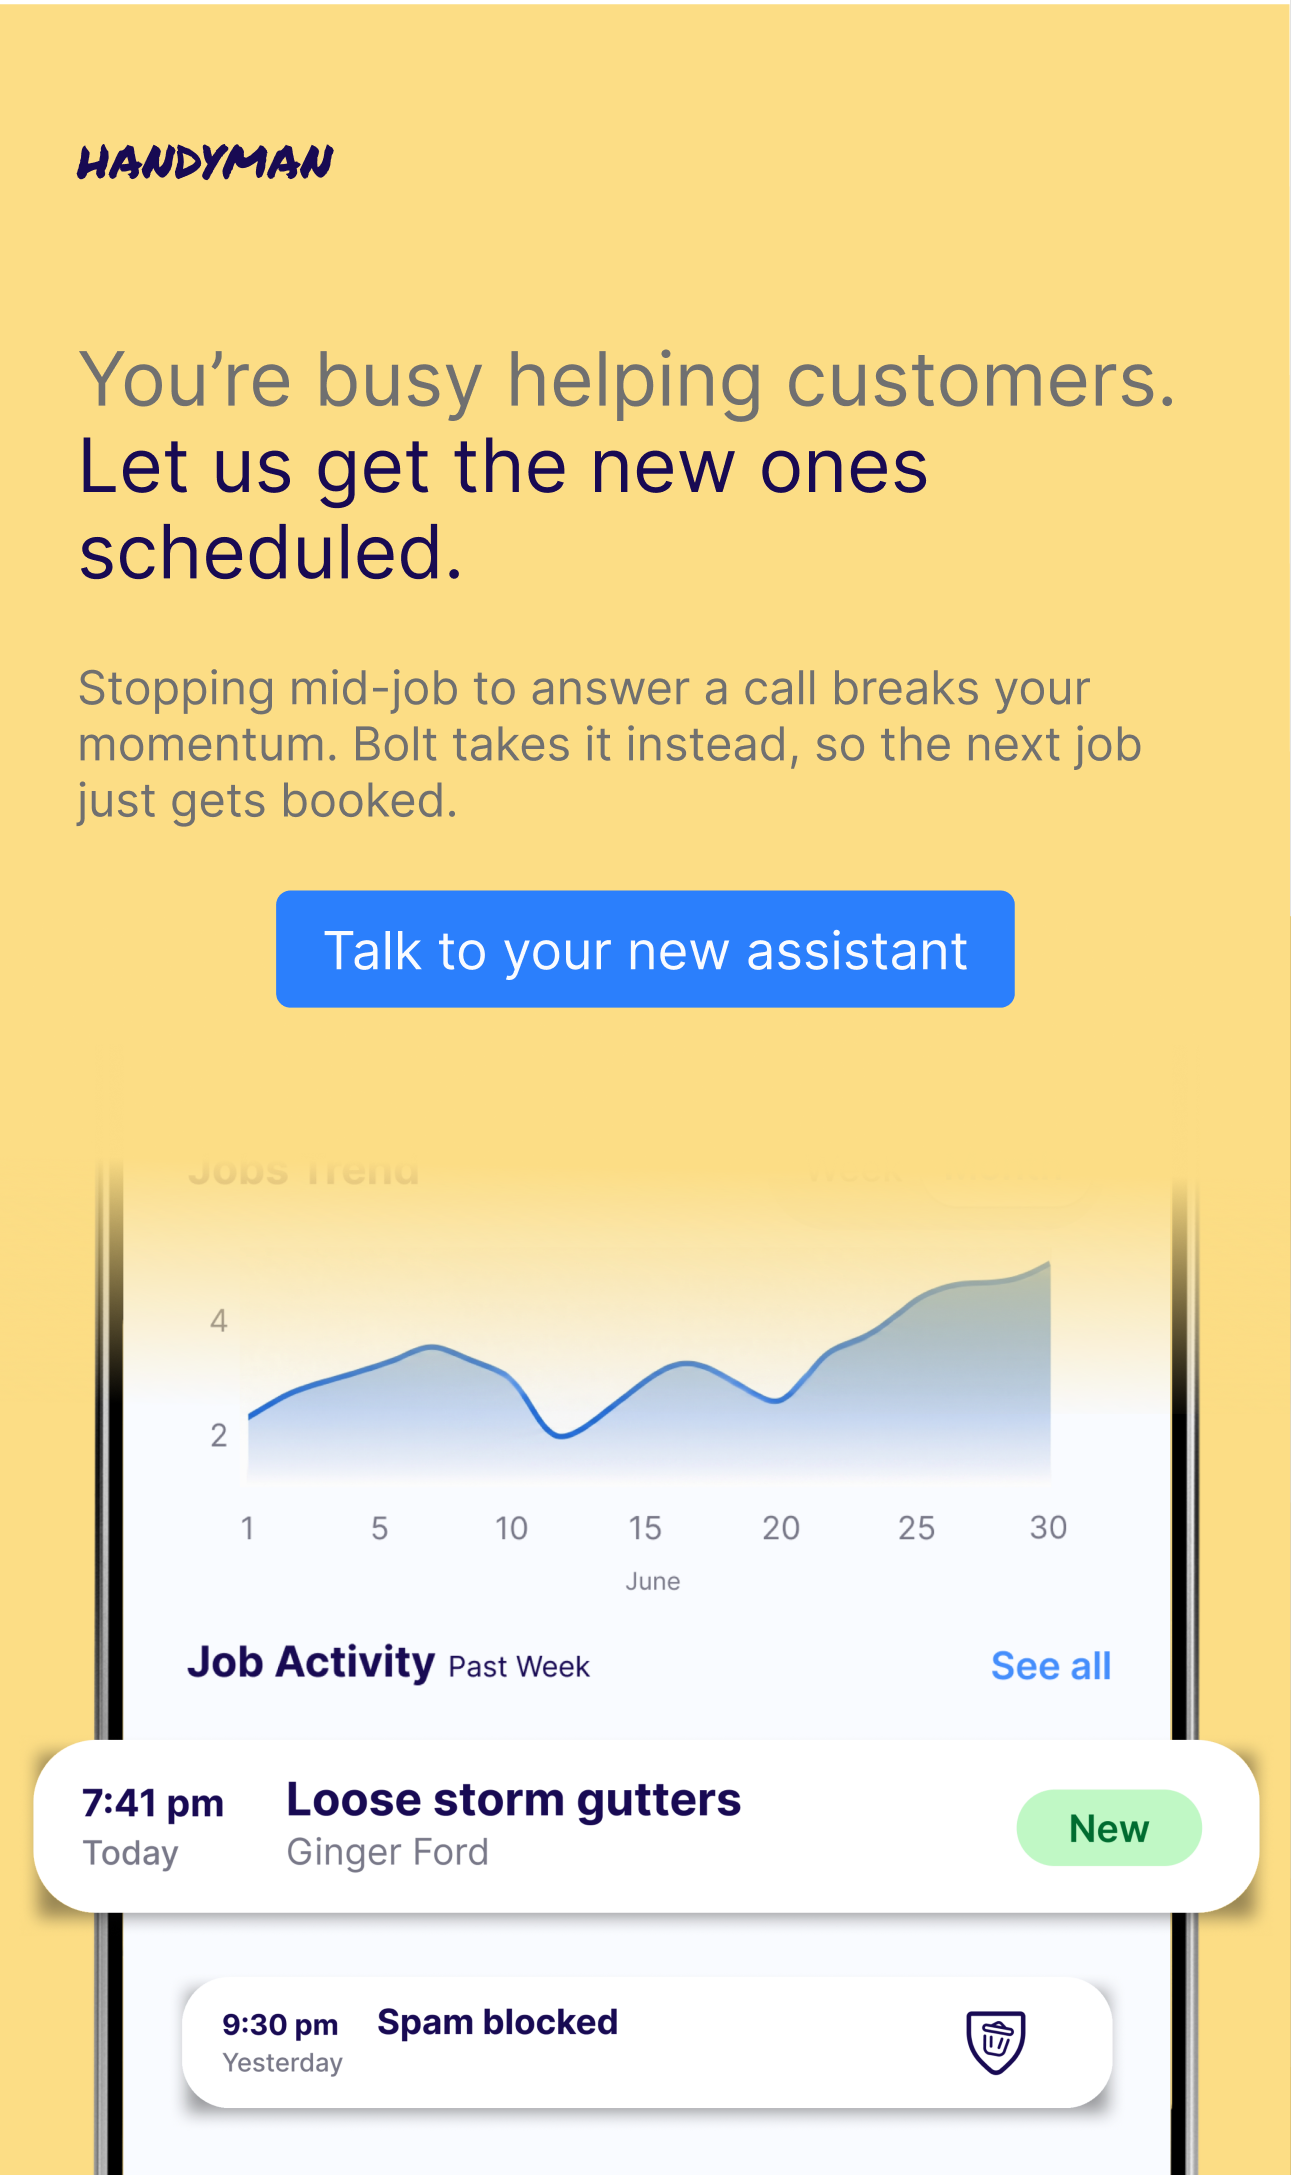
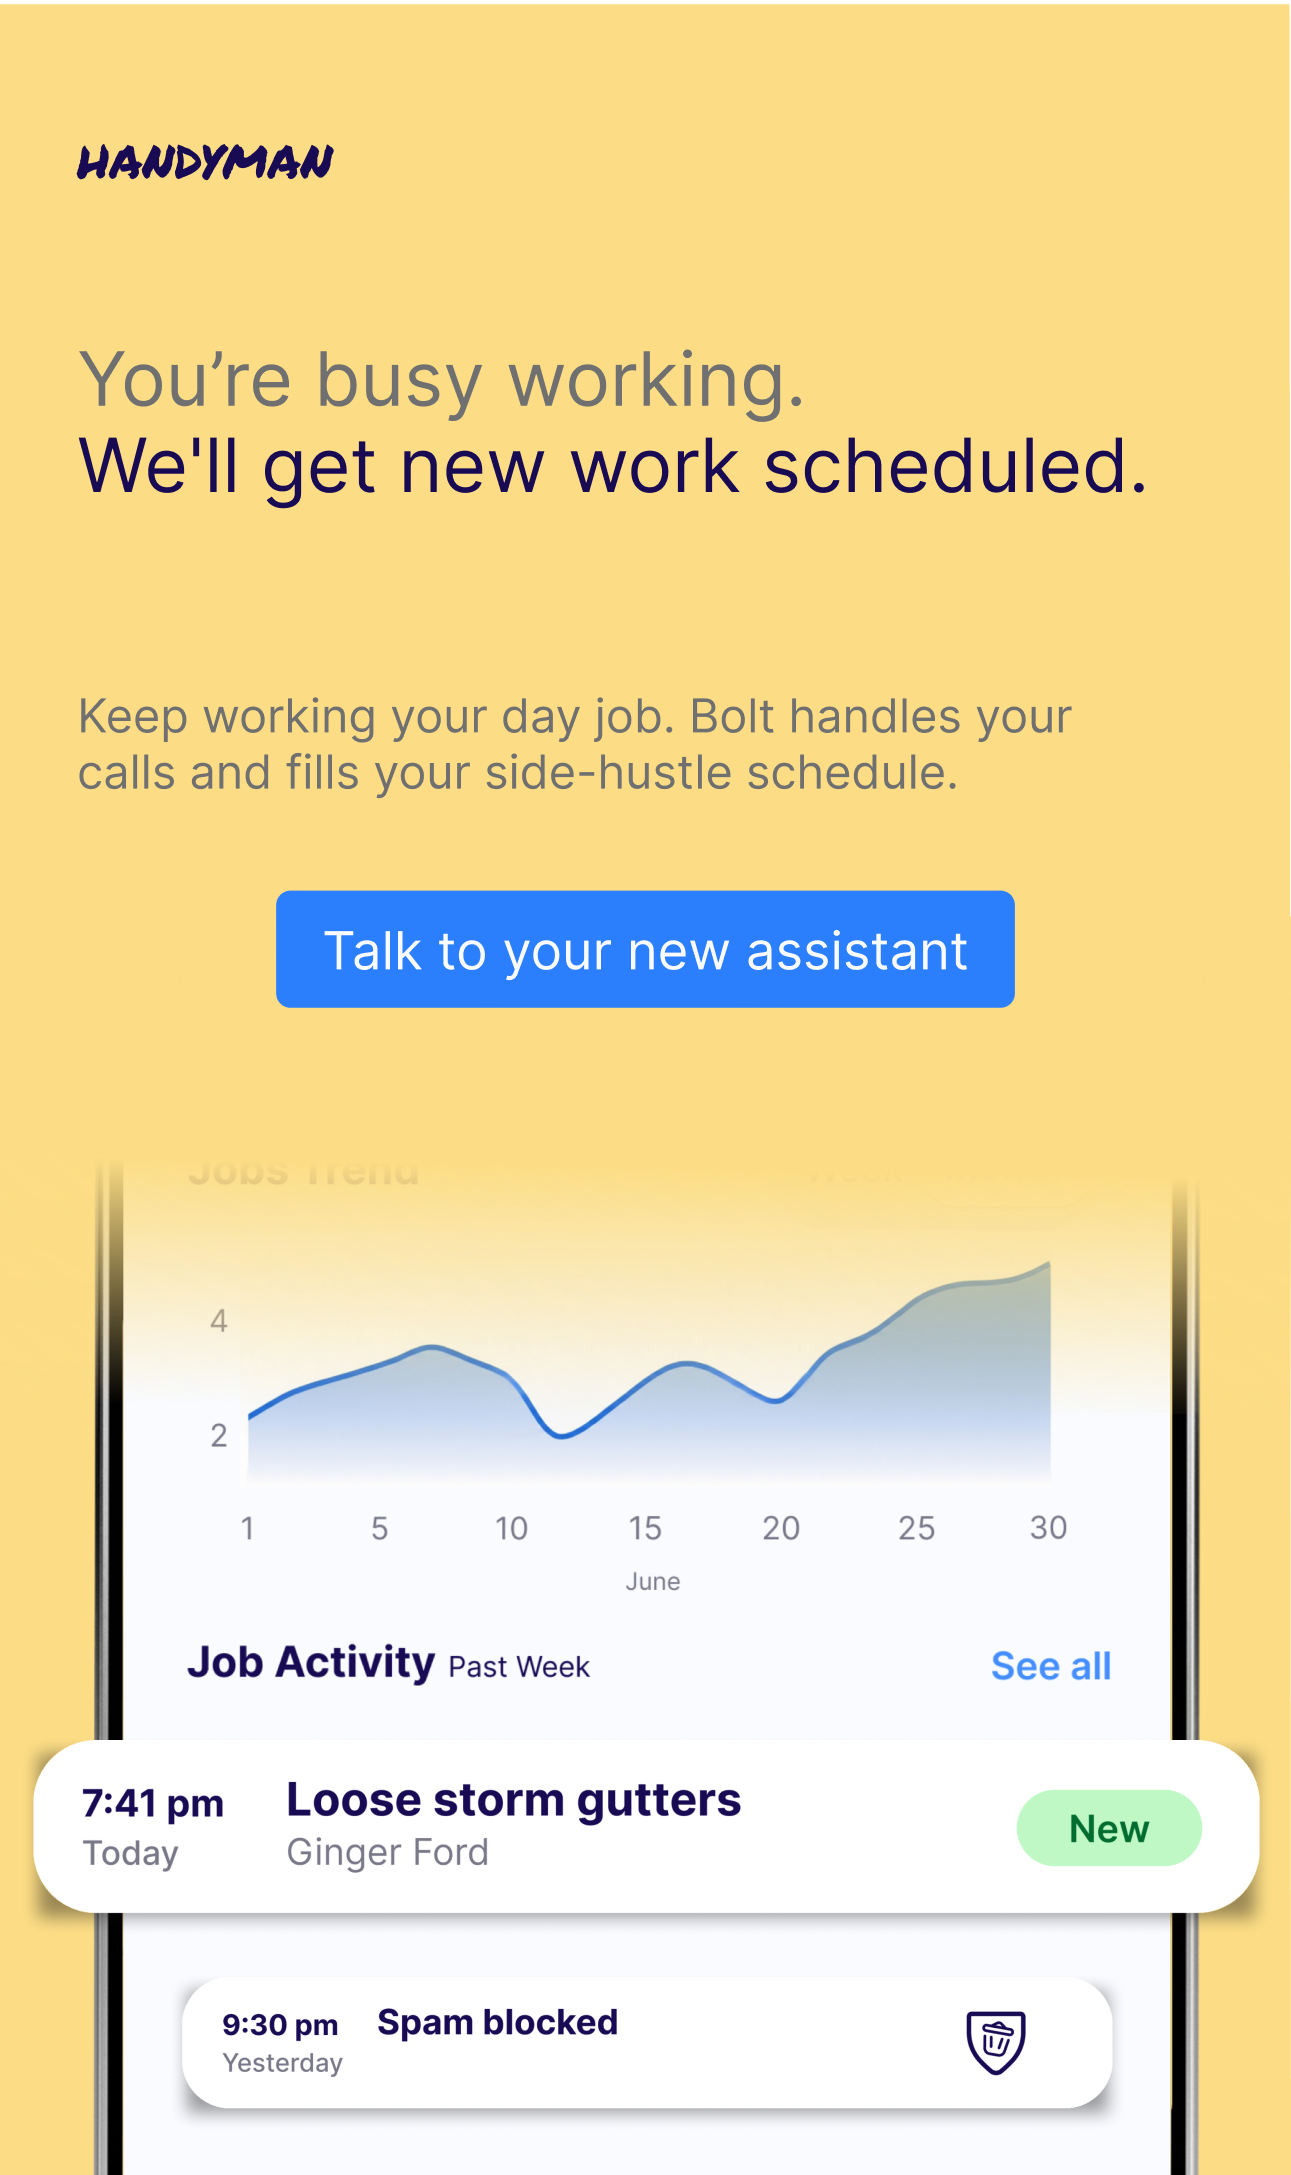
AFMBP-2540: handyman phone hero image shows the owner's current headline + subtitle (D2) (#138)
Owner, 11-10: "OK on the D2 handyman hero image." On phones the handyman
hero is one baked image from Figma frame 2309:4959. It still showed the
oldest copy ("You're busy helping customers..."). The frame's two text
layers were edited on 11-09 (owner-approved option A) to his 11-02 headline
and 10-31 subtitle, the words the desktop hero shows since AFMBP-2484.

- assets/handy-hero-mobile.png: the frame exported at the old image's scale
  (1291 wide), with the nav cropped at the same row, so it is 1291x2175
  again. Outside the text the pixels match the old image (mean difference
  under 0.5/255), and the painted Talk button is the same 276,891 739x116
  box the phone tap target covers.
- handyman.html: ?v=3, so phones fetch the new image; the alt text is the
  hidden "Bolt Answering for Handymen: " prefix plus the image's words.
- tools/handyman-hero-check.mjs pins the image URL, its alt text, its size
  and its bytes (NC=oldalt, NC=oldv).

Changed region(s): [[0.062, 0.154, 0.8985, 0.2772], [0.062, 0.308, 0.8366, 0.3697], [0.8366, 0.3389, 0.8675, 0.3697]]

diff --git a/handyman.html b/handyman.html
@@ -106,7 +106,7 @@
 
   <!-- ===================== HERO ===================== -->
   <section class="tphero tphero--yellow">
-    <img class="tphero__mobileimg" src="assets/handy-hero-mobile.png?v=2" alt="Bolt Answering for Handymen: You&rsquo;re busy helping customers. Let us get the new ones scheduled. Bolt takes the call so the next job just gets booked." />
+    <img class="tphero__mobileimg" src="assets/handy-hero-mobile.png?v=3" alt="Bolt Answering for Handymen: You&rsquo;re busy working. We'll get new work scheduled. Keep working your day job. Bolt handles your calls and fills your side-hustle schedule." />
     <a href="#" class="tphero__mobilecta" data-demo-open aria-label="Talk to your new assistant"></a>
     <img class="tphero__bg2" src="assets/handy-hero-bg.jpg" alt="" />
     <img class="tphero__dash tphero__dash--panel" src="assets/handy-hero-dash.png" alt="Bolt dashboard: Jobs Trend and a loose storm gutters lead from Ginger Frost" />
